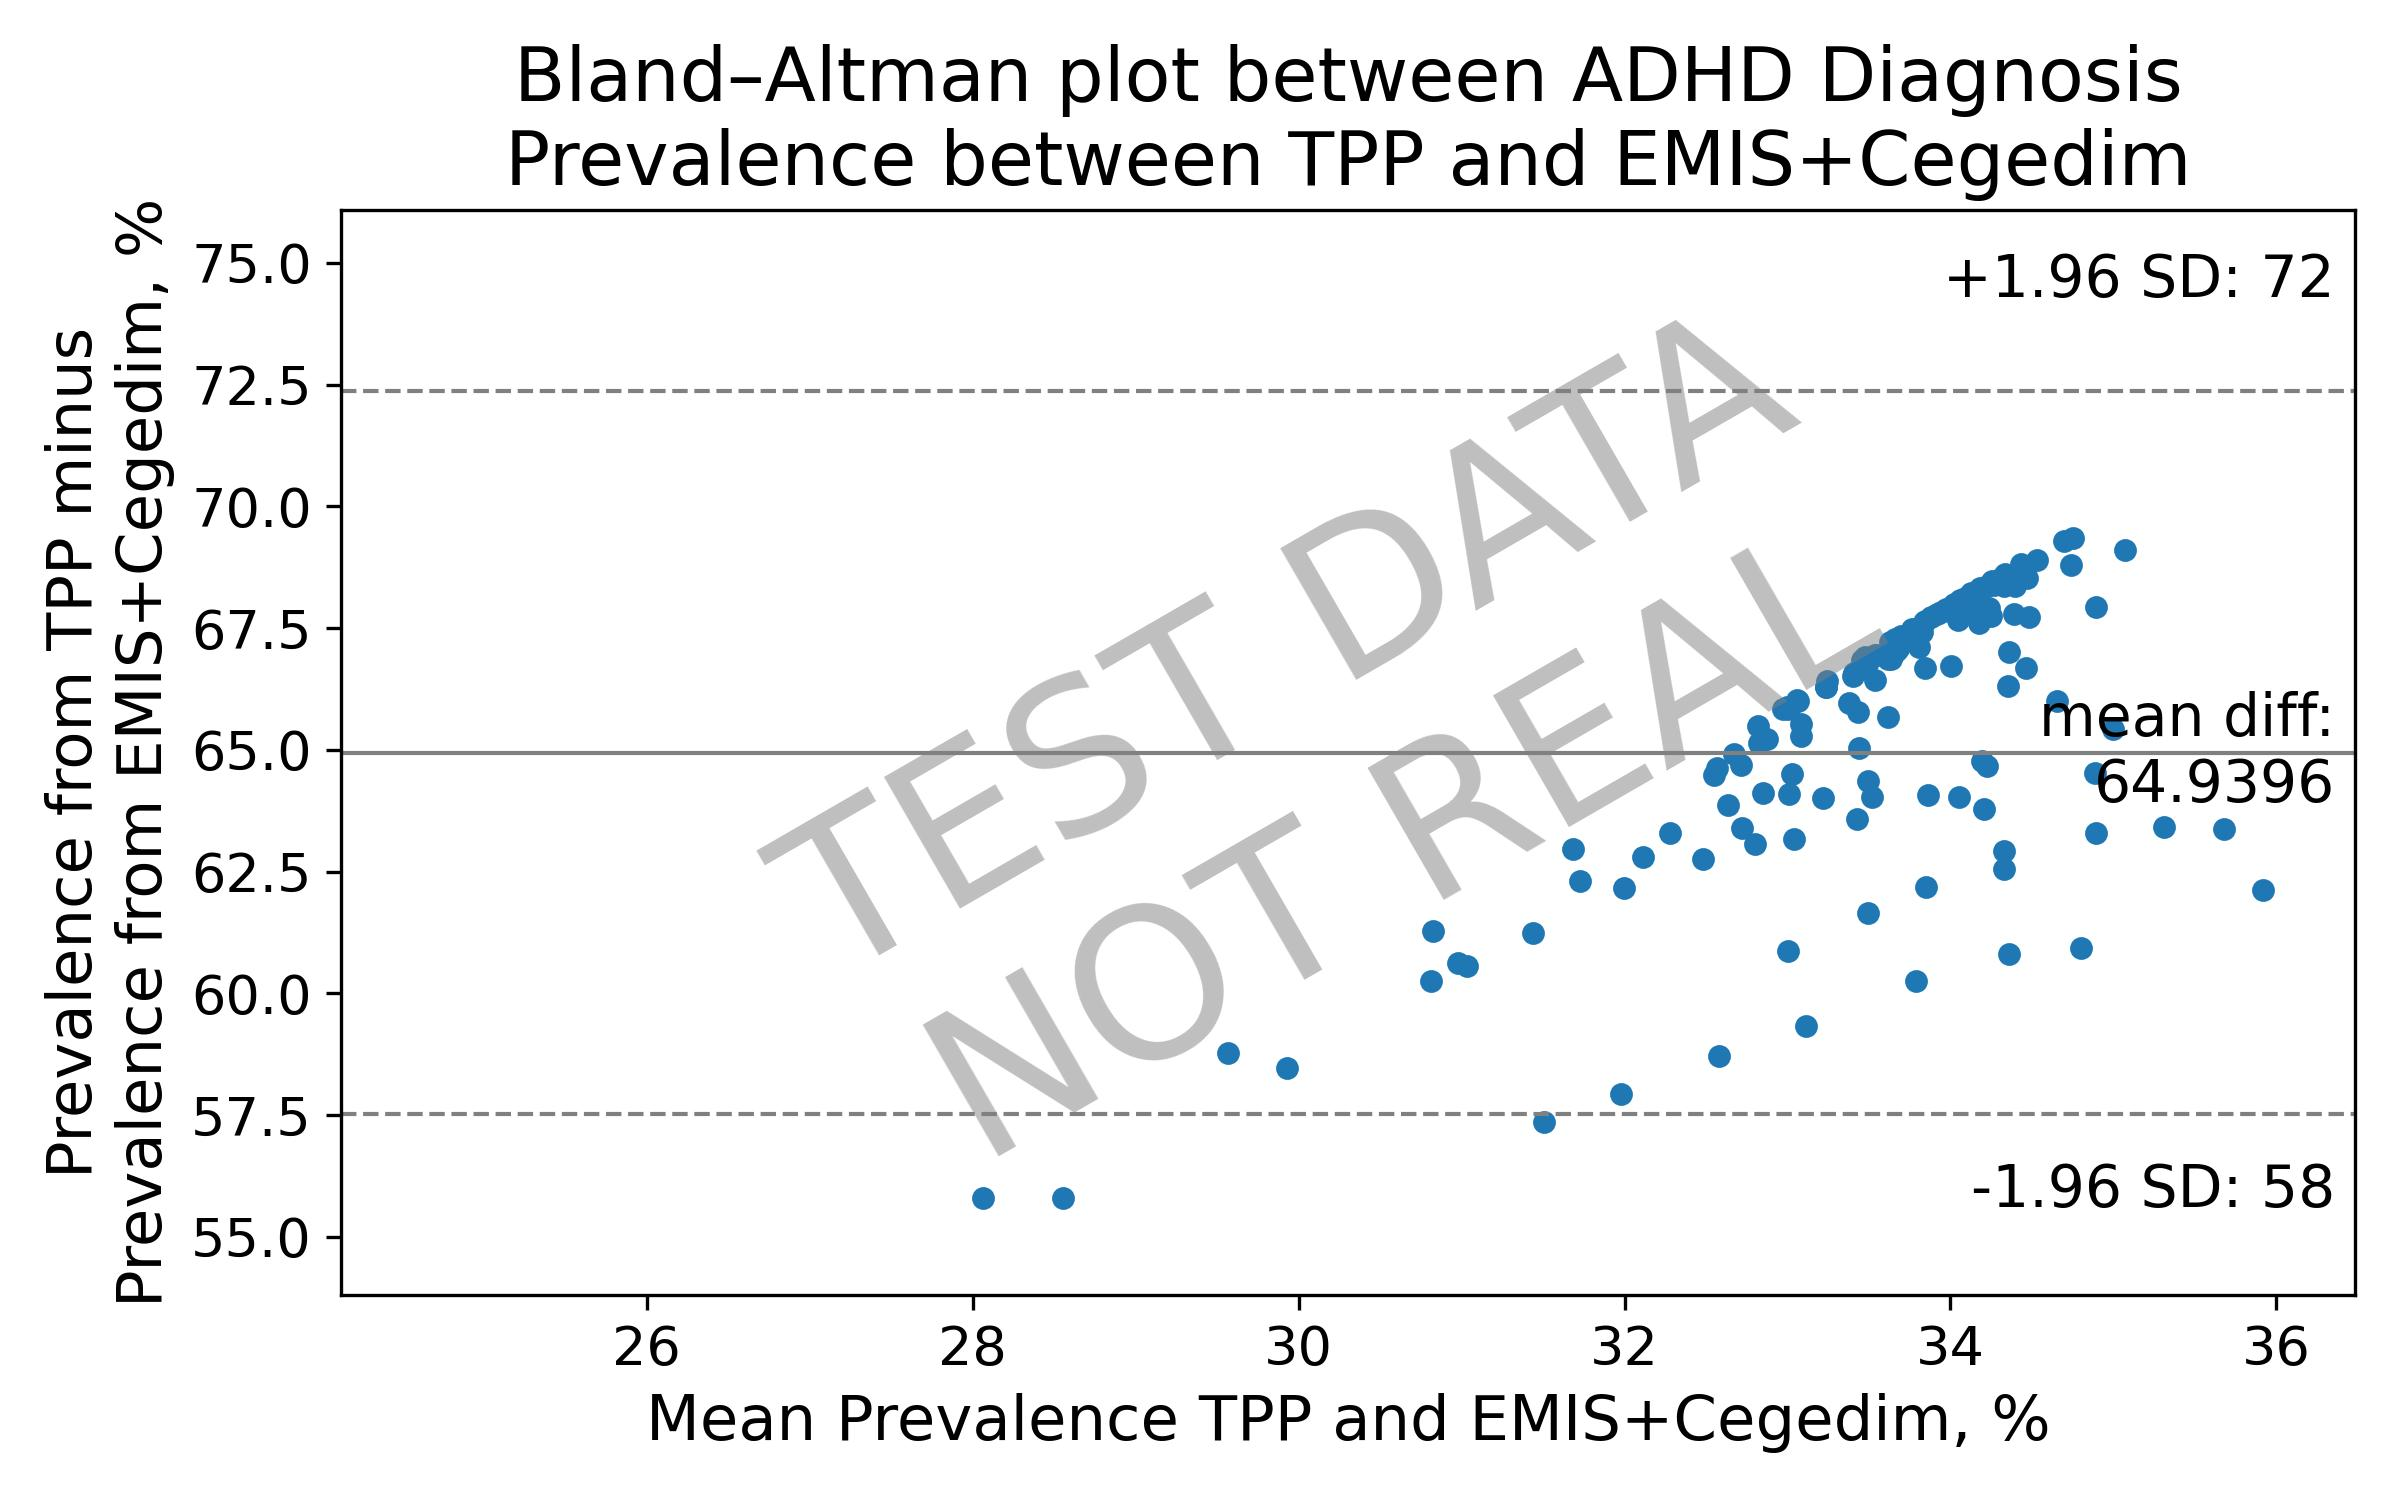
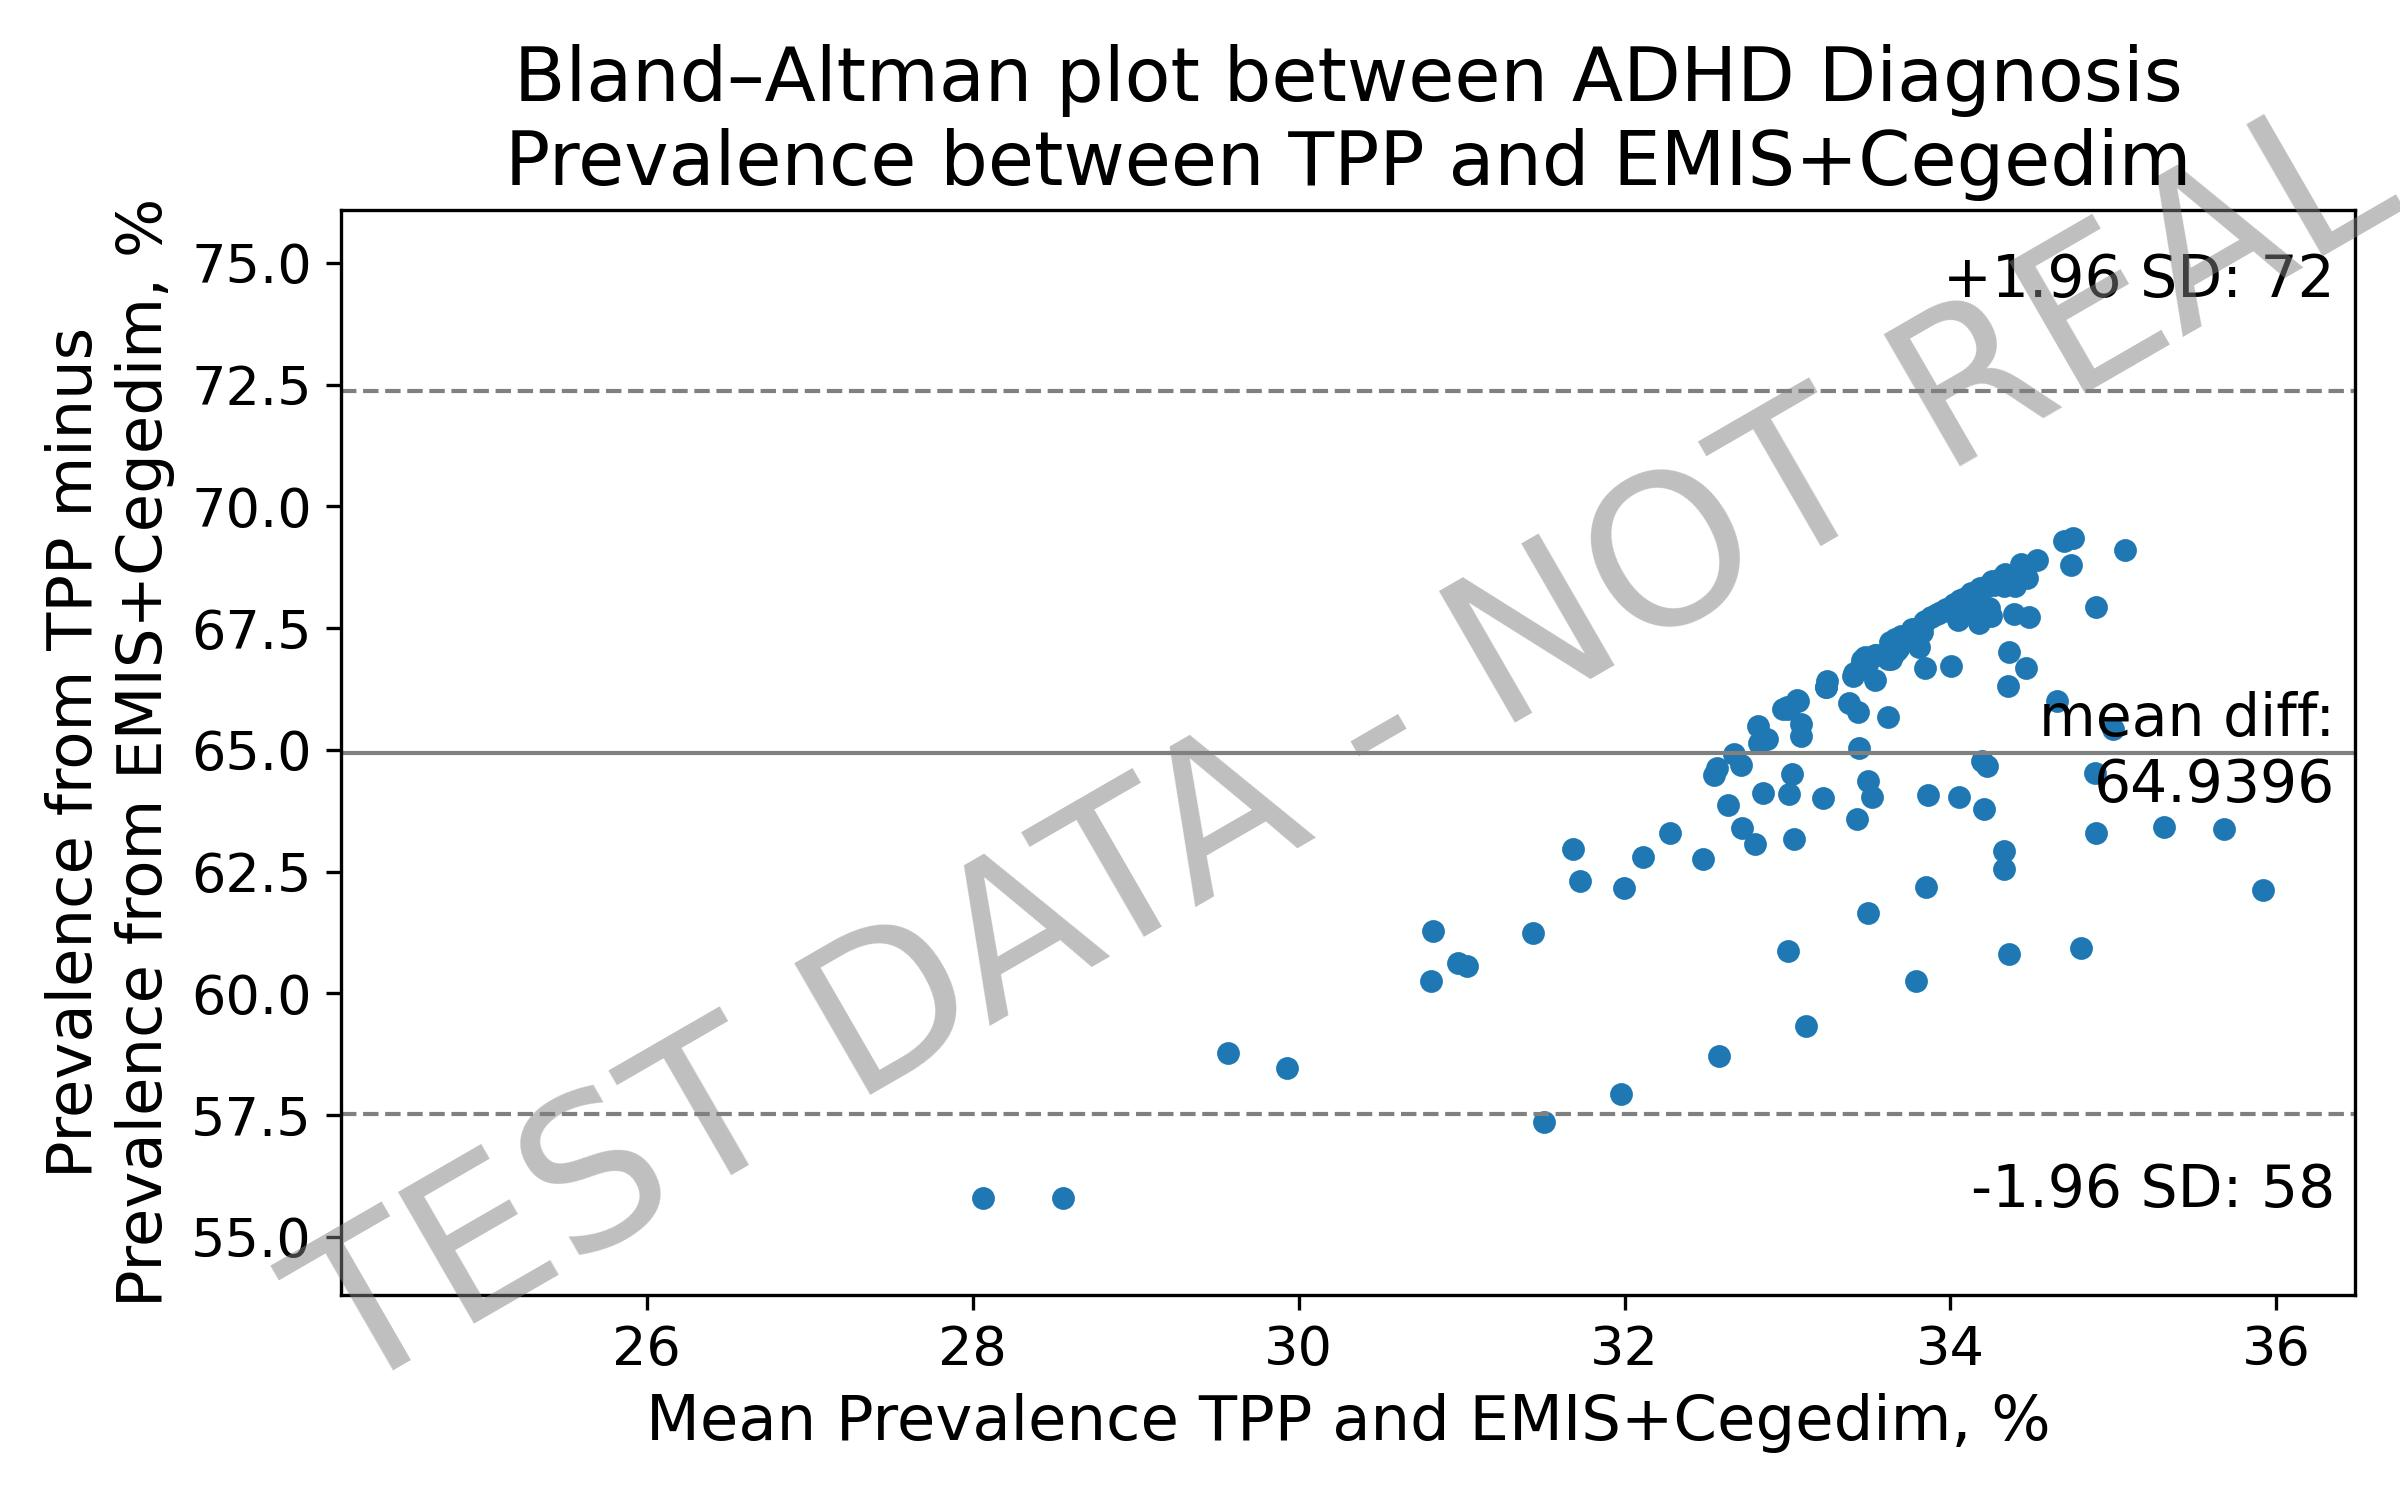
longer watermark

Changed region(s): [[0.3125, 0.2147, 0.7812, 0.7667], [0.0938, 0.6747, 0.3125, 0.92], [0.7812, 0.0613, 1.0, 0.3067]]

diff --git a/docs/graph_production/config.py b/docs/graph_production/config.py
@@ -18,7 +18,7 @@ bland_altman_plt = {
     'file_path_emis':'docs/emis_calculation/emis_measure.csv',
     'file_path_tpp' : 'output/Table_2_Prevalence_of_ADHD_Diagnosis.csv',
     'file_name':'docs/graph_production/Bland_Altman_plot_between_ADHD_Diagnosis_Prevalence.jpeg',
-    'watermark':'TEST DATA\nNOT REAL',
+    'watermark':'TEST DATA - NOT REAL',
     'joining_cols' : ['interval_start','interval_end','sex','age_band'],
     'suffixes' : ('_tpp','_emis'),
 }
